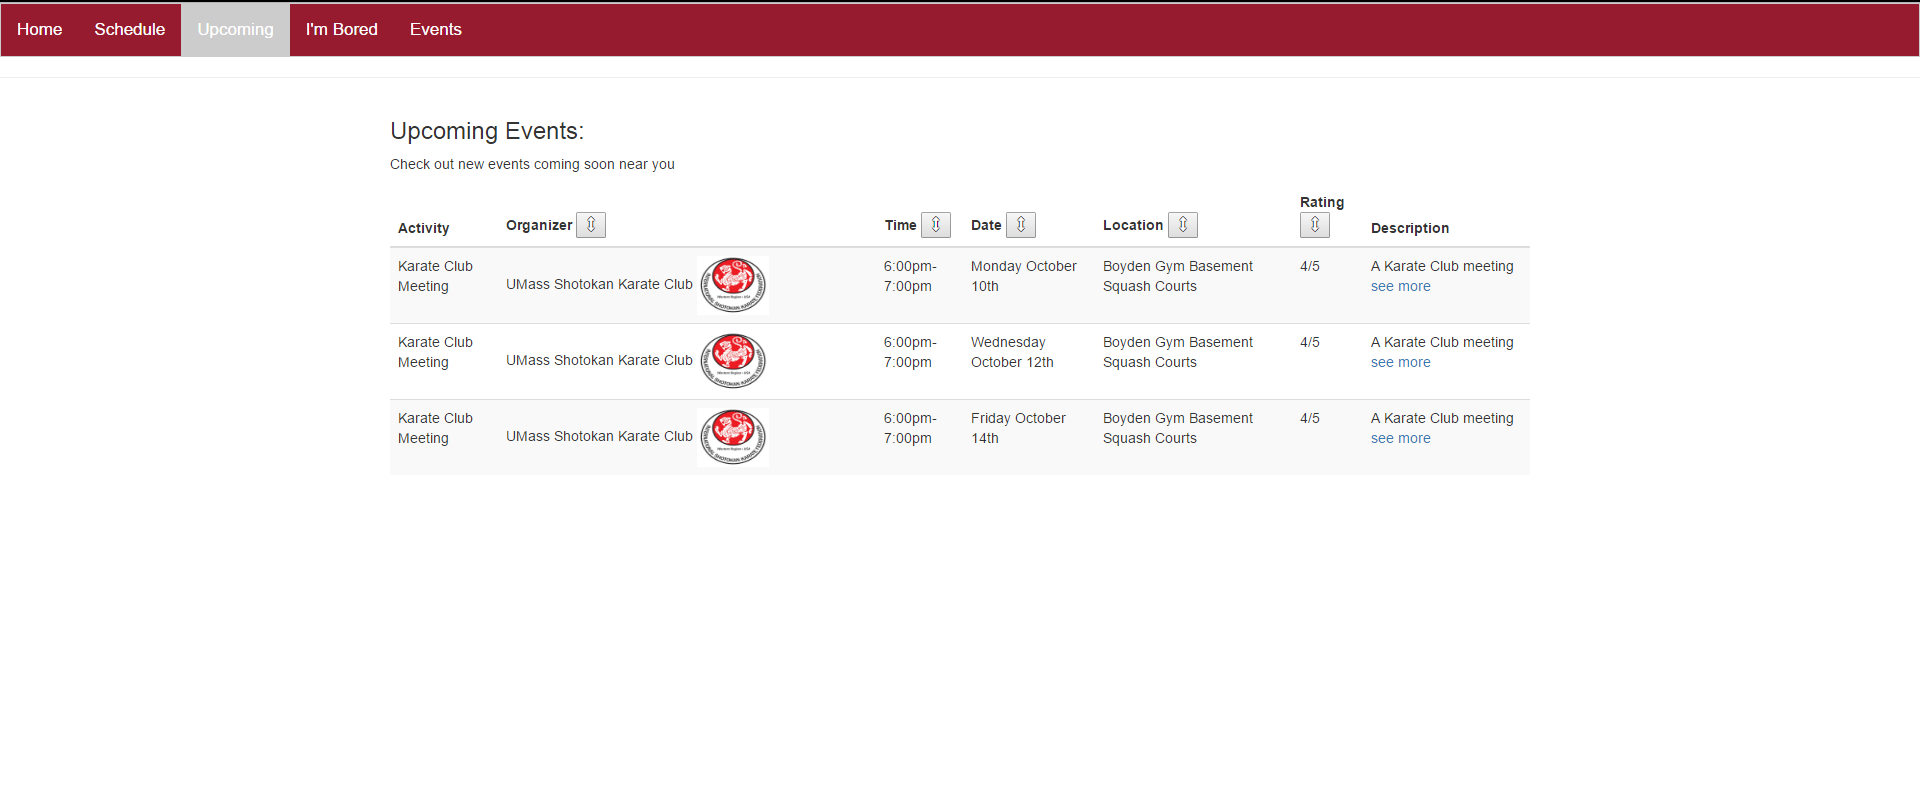
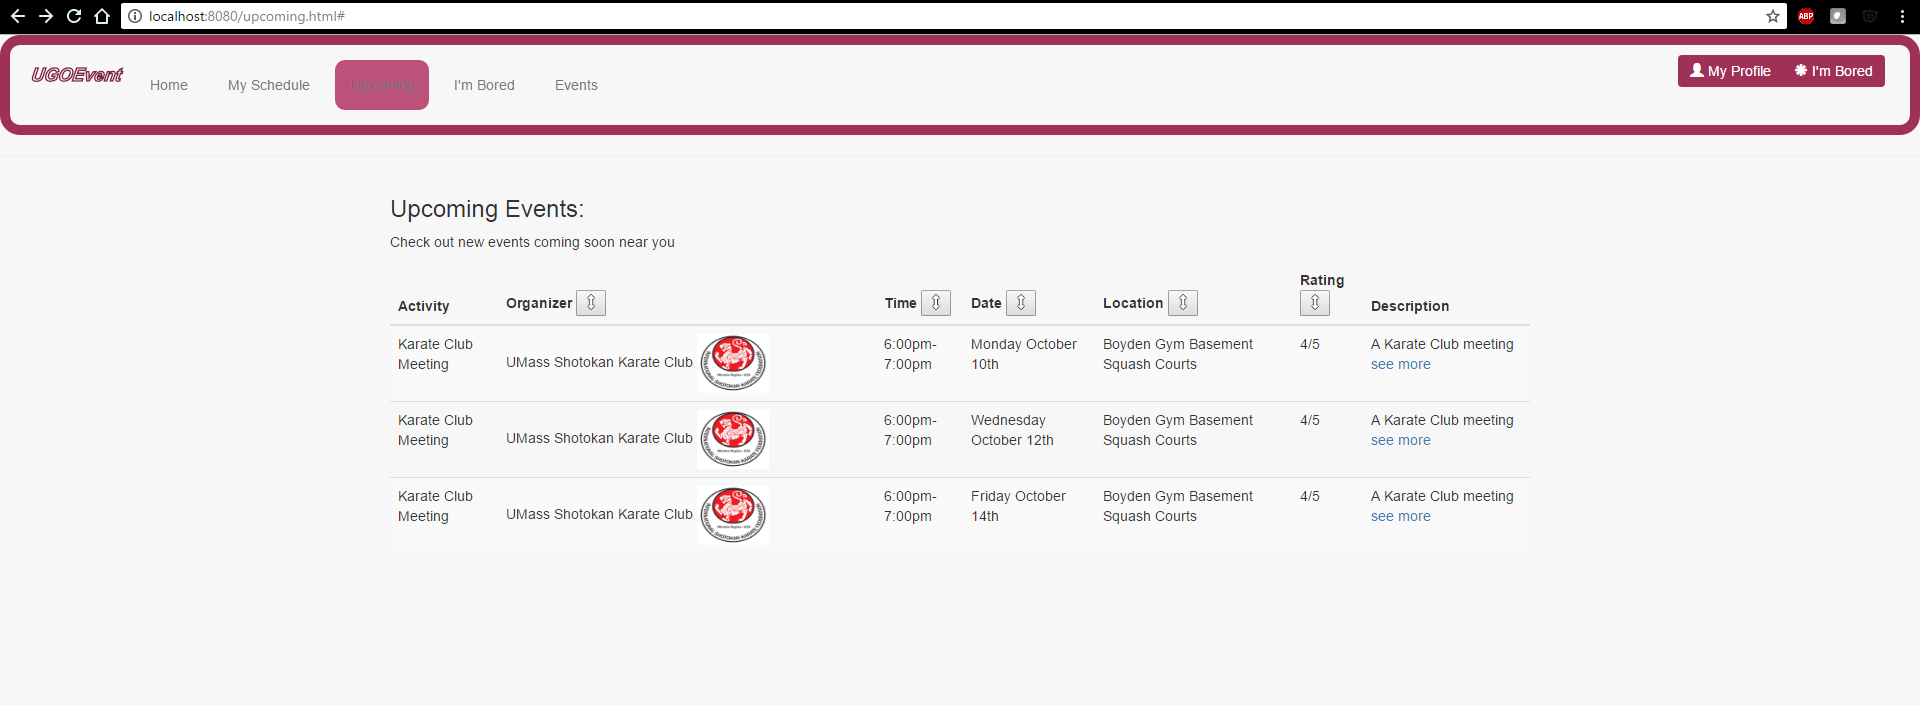
fixed navbar

diff --git a/build/upcoming.html b/build/upcoming.html
@@ -9,38 +9,33 @@
     <!-- Bootstrap's CSS -->
     <link href="css/bootstrap.min.css" rel="stylesheet">
     <!-- Custom CSS -->
+    <link href="css/template.css" rel="stylesheet">
     <link href="css/upcoming.css" rel="stylesheet">
 </head>
 
 <body>
-    <!--Tabbed Nav Bar-->
-    <ul class="tab">
-        <li class="ournav">
-            <a href="#" class="tablinks">
-                <font color="#ffffff">Home</font>
-            </a>
-        </li>
-        <li class="ournav">
-            <a href="#" class="tablinks">
-                <font color="#ffffff">Schedule</font>
-            </a>
-        </li>
-        <li class="active ournav">
-            <a href="#" class="tablinks">
-                <font color="#ffffff">Upcoming</font>
-            </a>
-        </li>
-        <li class="ournav">
-            <a href="#" class="tablinks">
-                <font color="#ffffff">I'm Bored</font>
-            </a>
-        </li>
-        <li class="ournav">
-            <a href="eventsmain.html" class="tablinks">
-                <font color="#ffffff">Events</font>
-            </a>
-        </li>
-    </ul>
+  <!--Beginning of navbar-->
+  <nav class="navbar navbar-default">
+      <div class="container-fluid">
+          <div class="navbar-header">
+              <a class="navbar-brand" href="#">UGOEvent</a>
+          </div>
+          <ul class="nav navbar-nav">
+              <li><a href="#">Home</a></li>
+              <li><a href="#">My Schedule</a></li>
+              <li class="active-class"><a href="#">Upcoming</a></li>
+              <li><a href="#">I'm Bored</a></li>
+              <li><a href="#">Events</a></li>
+          </ul>
+          <div class="btn-group pull-right" role="group">
+              <button type="button" class="btn btn-primary">
+        <span class="glyphicon glyphicon-user"></span> My Profile</button>
+              <button type="button" class="btn btn-primary">
+        <span class="glyphicon glyphicon-asterisk"></span> I'm Bored</button>
+          </div>
+      </div>
+  </nav>
+  <!--end of navbar-->
     <!--Delimination Line-->
     <hr>
     <div class="col-md-offset-3 col-centered">
